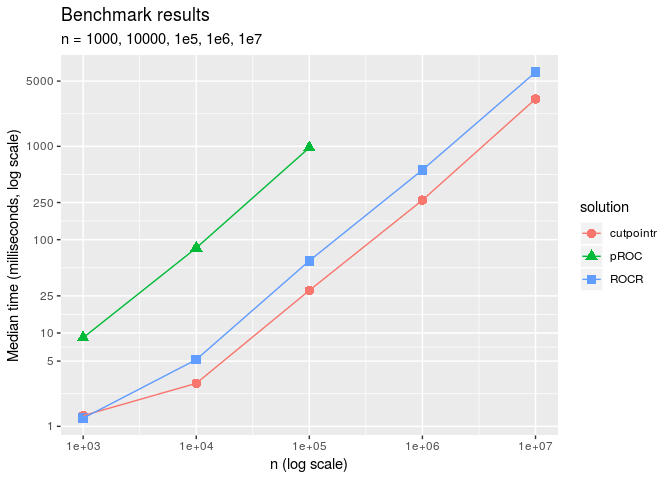
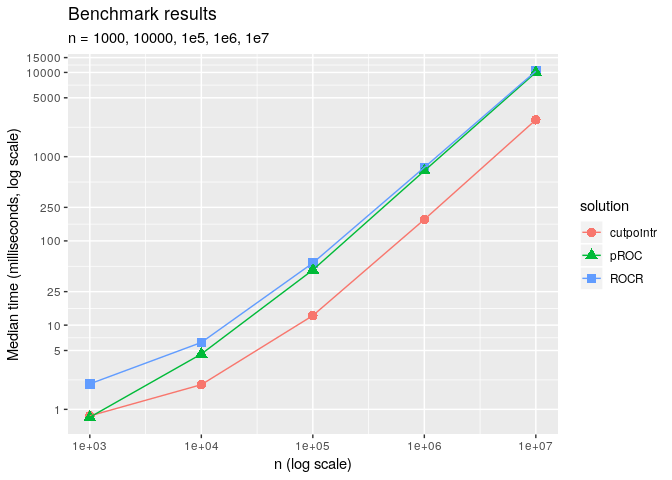
Update benchmarks in README.Rmd

diff --git a/README.md b/README.md
@@ -1218,12 +1218,21 @@ opt_cut %>%
 
 ![](README-unnamed-chunk-45-1.png)
 
-Benchmarks
-----------
+## Benchmarks
 
-To offer a comparison to established solutions, **cutpointr** will be benchmarked against `optimal.cutpoints` from the **OptimalCutpoints** package and custom functions based on the **ROCR** and **pROC** packages. By generating data of different sizes the benchmarks will offer a comparison of the scalability of the different solutions. When selecting cutpoints, the `optimal.cutpoints` and `cutpointr` functions are more convenient and offer additional features in comparison to the functions based on **ROCR** and **pROC** but the latter ones are still useful for benchmarking purposes.
+To offer a comparison to established solutions, **cutpointr** will be
+benchmarked against `optimal.cutpoints` from the **OptimalCutpoints**
+package and custom functions based on the **ROCR** and **pROC**
+packages. By generating data of different sizes the benchmarks will
+offer a comparison of the scalability of the different solutions. When
+selecting cutpoints, the `optimal.cutpoints` and `cutpointr` functions
+are more convenient and offer additional features in comparison to the
+functions based on **ROCR** and **pROC** but the latter ones are still
+useful for benchmarking purposes.
 
-Using `prediction` and `performance` from the **ROCR** package and `roc` from the **pROC** package, we can write functions for computing the cutpoint that maximizes the sum of sensitivity and specificity:
+Using `prediction` and `performance` from the **ROCR** package and `roc`
+from the **pROC** package, we can write functions for computing the
+cutpoint that maximizes the sum of sensitivity and specificity:
 
 ``` r
 # Return cutpoint that maximizes the sum of sensitivity and specificiy
@@ -1238,54 +1247,73 @@ rocr_sensspec <- function(x, class) {
 }
 
 # pROC package
-proc_sensspec <- function(x, class, 
-                          levels = c("no", "yes"), algo = 2) {
-    r <- pROC::roc(class, x, algorithm = algo)
-    sens <- r$sensitivities
-    spec <- r$specificities
-    cut <- r$thresholds
-    cut[which.max(sens + spec)]
+proc_sensspec <- function(x, class) {
+    r <- pROC::roc(class, x, algorithm = 2, levels = c(0, 1), direction = "<")
+    pROC::coords(r, "best", ret="threshold")[1]
 }
 ```
 
-The benchmarking will be carried out using the **microbenchmark** package and randomly generated data. The values of the `x` predictor variable are drawn from a normal distribution which leads to a lot more unique values than were encountered before in the `suicide` data. Accordingly, the search for an optimal cutpoint is much more demanding, if all possible cutpoints are evaluated.
+The benchmarking will be carried out using the **microbenchmark**
+package and randomly generated data. The values of the `x` predictor
+variable are drawn from a normal distribution which leads to a lot more
+unique values than were encountered before in the `suicide` data.
+Accordingly, the search for an optimal cutpoint is much more demanding,
+if all possible cutpoints are evaluated.
 
-Benchmarks are run for sample sizes of 1000, 1e4, 1e5, 1e6, and 1e7. For low sample sizes **cutpointr** is slower than the other solutions. While this should be of low practical importance, **cutpointr** scales more favorably with increasing sample size. The speed disadvantage in small samples that leads to the lower limit of around 25ms is mainly due to the nesting of the original data and the results that makes the compact output of `cutpointr` possible. For sample sizes &gt; 1e5 **cutpointr** is a little faster than the function based on **ROCR**. Both of these solutions are generally faster than **OptimalCutpoints** and **ThresholdROC** with the exception of small samples. **OptimalCutpoints** and **ThresholdROC** had to be excluded from benchmarks with more than 1e4 observations and **pROC** from benchmarks with more than 1e5 observations due to high memory requirements and/or excessive run times, rendering the use of these packages in larger samples impractical.
+Benchmarks are run for sample sizes of 1000, 1e4, 1e5, 1e6, and 1e7. For
+low sample sizes **cutpointr** is slower than the other solutions. While
+this should be of low practical importance, **cutpointr** scales more
+favorably with increasing sample size. The speed disadvantage in small
+samples that leads to the lower limit of around 25ms is mainly due to
+the nesting of the original data and the results that makes the compact
+output of `cutpointr` possible. For sample sizes \> 1e5 **cutpointr** is
+a little faster than the function based on **ROCR**. Both of these
+solutions are generally faster than **OptimalCutpoints** and
+**ThresholdROC** with the exception of small samples.
+**OptimalCutpoints** and **ThresholdROC** had to be excluded from
+benchmarks with more than 1e4 observations and **pROC** from benchmarks
+with more than 1e5 observations due to high memory requirements and/or
+excessive run times, rendering the use of these packages in larger
+samples
+impractical.
 
-![](README-unnamed-chunk-49-1.png)
+![](README-unnamed-chunk-49-1.png)<!-- -->
 
-|      n|    cutpointr|  OptimalCutpoints|         pROC|          ROCR|  ThresholdROC|
-|------:|------------:|-----------------:|------------:|-------------:|-------------:|
-|  1e+03|     8.334464|          56.21193|     9.131493|      3.017892|      78.88322|
-|  1e+04|    13.057035|        5383.76537|    94.403445|     11.284935|    7930.97356|
-|  1e+05|    68.155645|                NA|  1021.098187|    108.988626|            NA|
-|  1e+06|   708.193360|                NA|           NA|   1250.425970|            NA|
-|  1e+07|  5893.323971|                NA|           NA|  13247.381417|            NA|
+|     n |   cutpointr | OptimalCutpoints |         pROC |         ROCR | ThresholdROC |
+| ----: | ----------: | ---------------: | -----------: | -----------: | -----------: |
+| 1e+03 |    4.429015 |         41.34526 |     0.969923 |     2.076954 |     37.63188 |
+| 1e+04 |    6.672219 |       3546.06340 |     4.807848 |     6.408562 |   3415.17947 |
+| 1e+05 |   28.464036 |               NA |    48.733272 |    55.908961 |           NA |
+| 1e+06 |  307.275820 |               NA |   737.162376 |   748.084636 |           NA |
+| 1e+07 | 5618.689105 |               NA | 11127.924753 | 11050.674290 |           NA |
 
 ### ROC curve only
 
-As we can see, the ROC curve calculation that is implemented in **cutpointr** is considerably faster in samples &gt; 1000 than the ones offered by **ROCR** and **pROC**.
+As we can see, the ROC curve calculation that is implemented in
+**cutpointr** is considerably faster in samples \> 1000 than the ones
+offered by **ROCR** and **pROC**.
 
 ``` r
 # ROCR package
 rocr_roc <- function(x, class) {
     pred <- ROCR::prediction(x, class)
+    perf <- ROCR::performance(pred, "sens", "spec")
     return(NULL)
 }
 
 # pROC package
-proc_roc <- function(x, class, levels = c("no", "yes"), algo = 2) {
-    r <- pROC::roc(class, x, algorithm = algo)
+proc_roc <- function(x, class) {
+    r <- pROC::roc(class, x, algorithm = 2, levels = c(0, 1), direction = "<")
     return(NULL)
 }
 ```
 
 ![](README-unnamed-chunk-54-1.png)
 
-|      n|    cutpointr|        pROC|         ROCR|
-|------:|------------:|-----------:|------------:|
-|  1e+03|     1.302793|    8.905319|     1.223025|
-|  1e+04|     2.889493|   81.582236|     5.190217|
-|  1e+05|    28.598465|  968.227087|    59.418236|
-|  1e+06|   265.087399|          NA|   559.158593|
-|  1e+07|  3218.965990|          NA|  6227.157674|
+|     n |    cutpointr |         pROC |         ROCR |
+| ----: | -----------: | -----------: | -----------: |
+| 1e+03 |    0.8369425 | 8.077945e-01 |     2.009407 |
+| 1e+04 |    1.9653230 | 4.542507e+00 |     6.229490 |
+| 1e+05 |   12.9868880 | 4.522000e+01 |    54.675308 |
+| 1e+06 |  179.6047020 | 6.795361e+02 |   745.745925 |
+| 1e+07 | 2738.7512405 | 1.002147e+04 | 10340.754099 |
